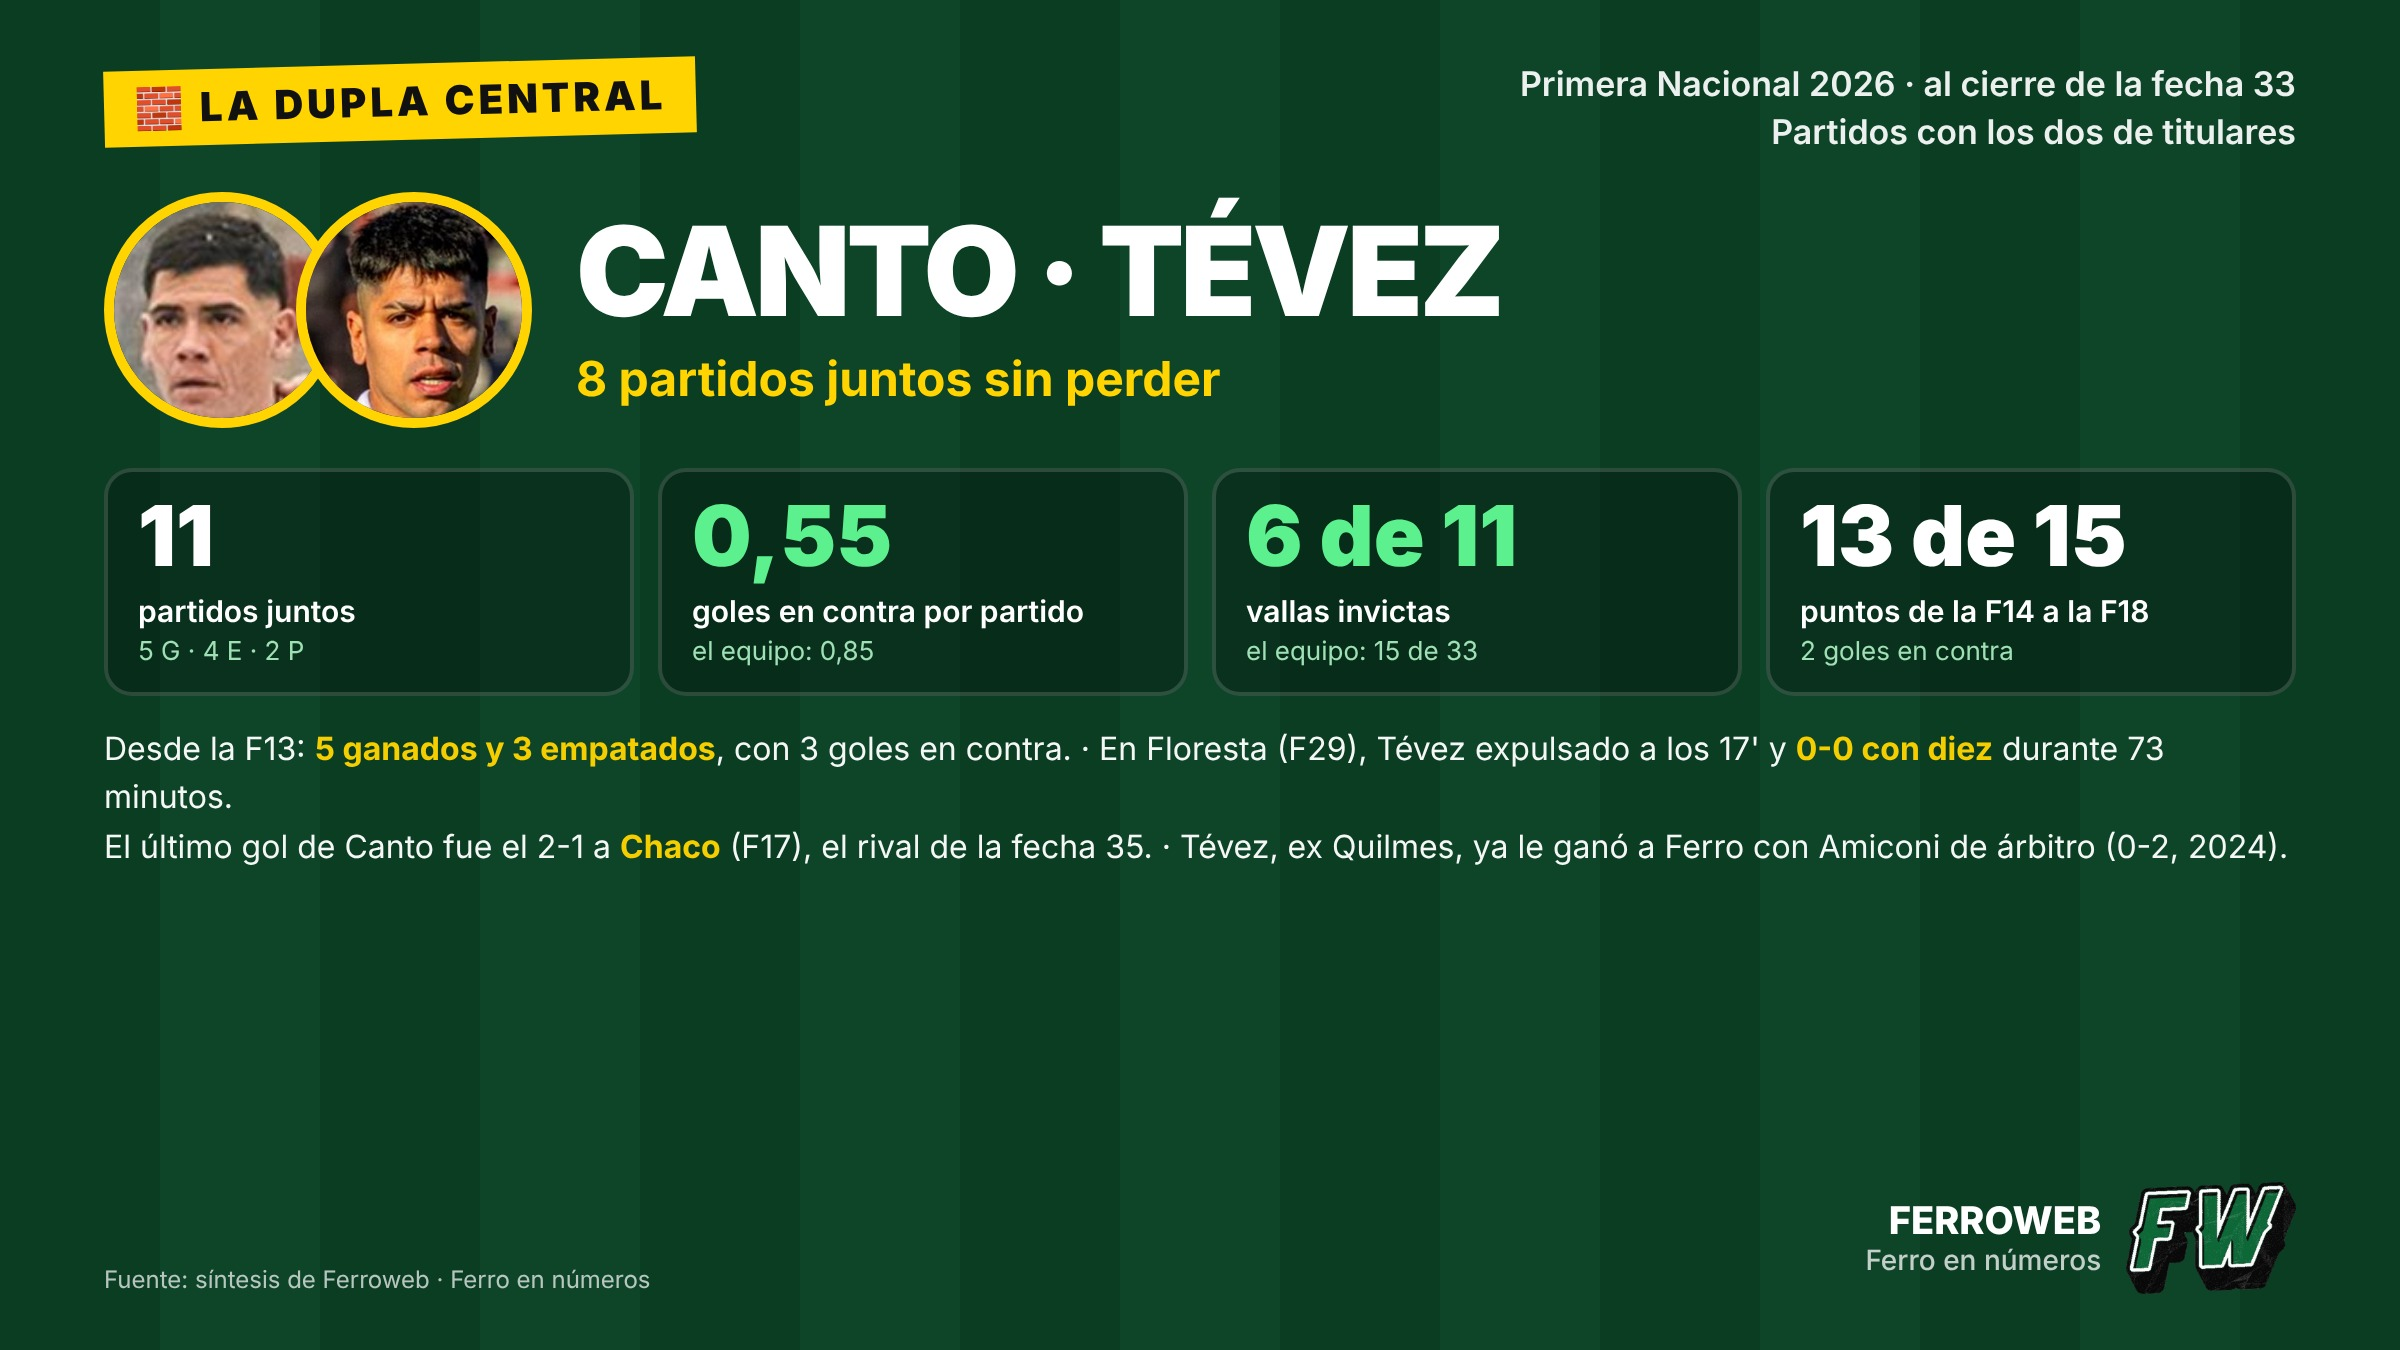
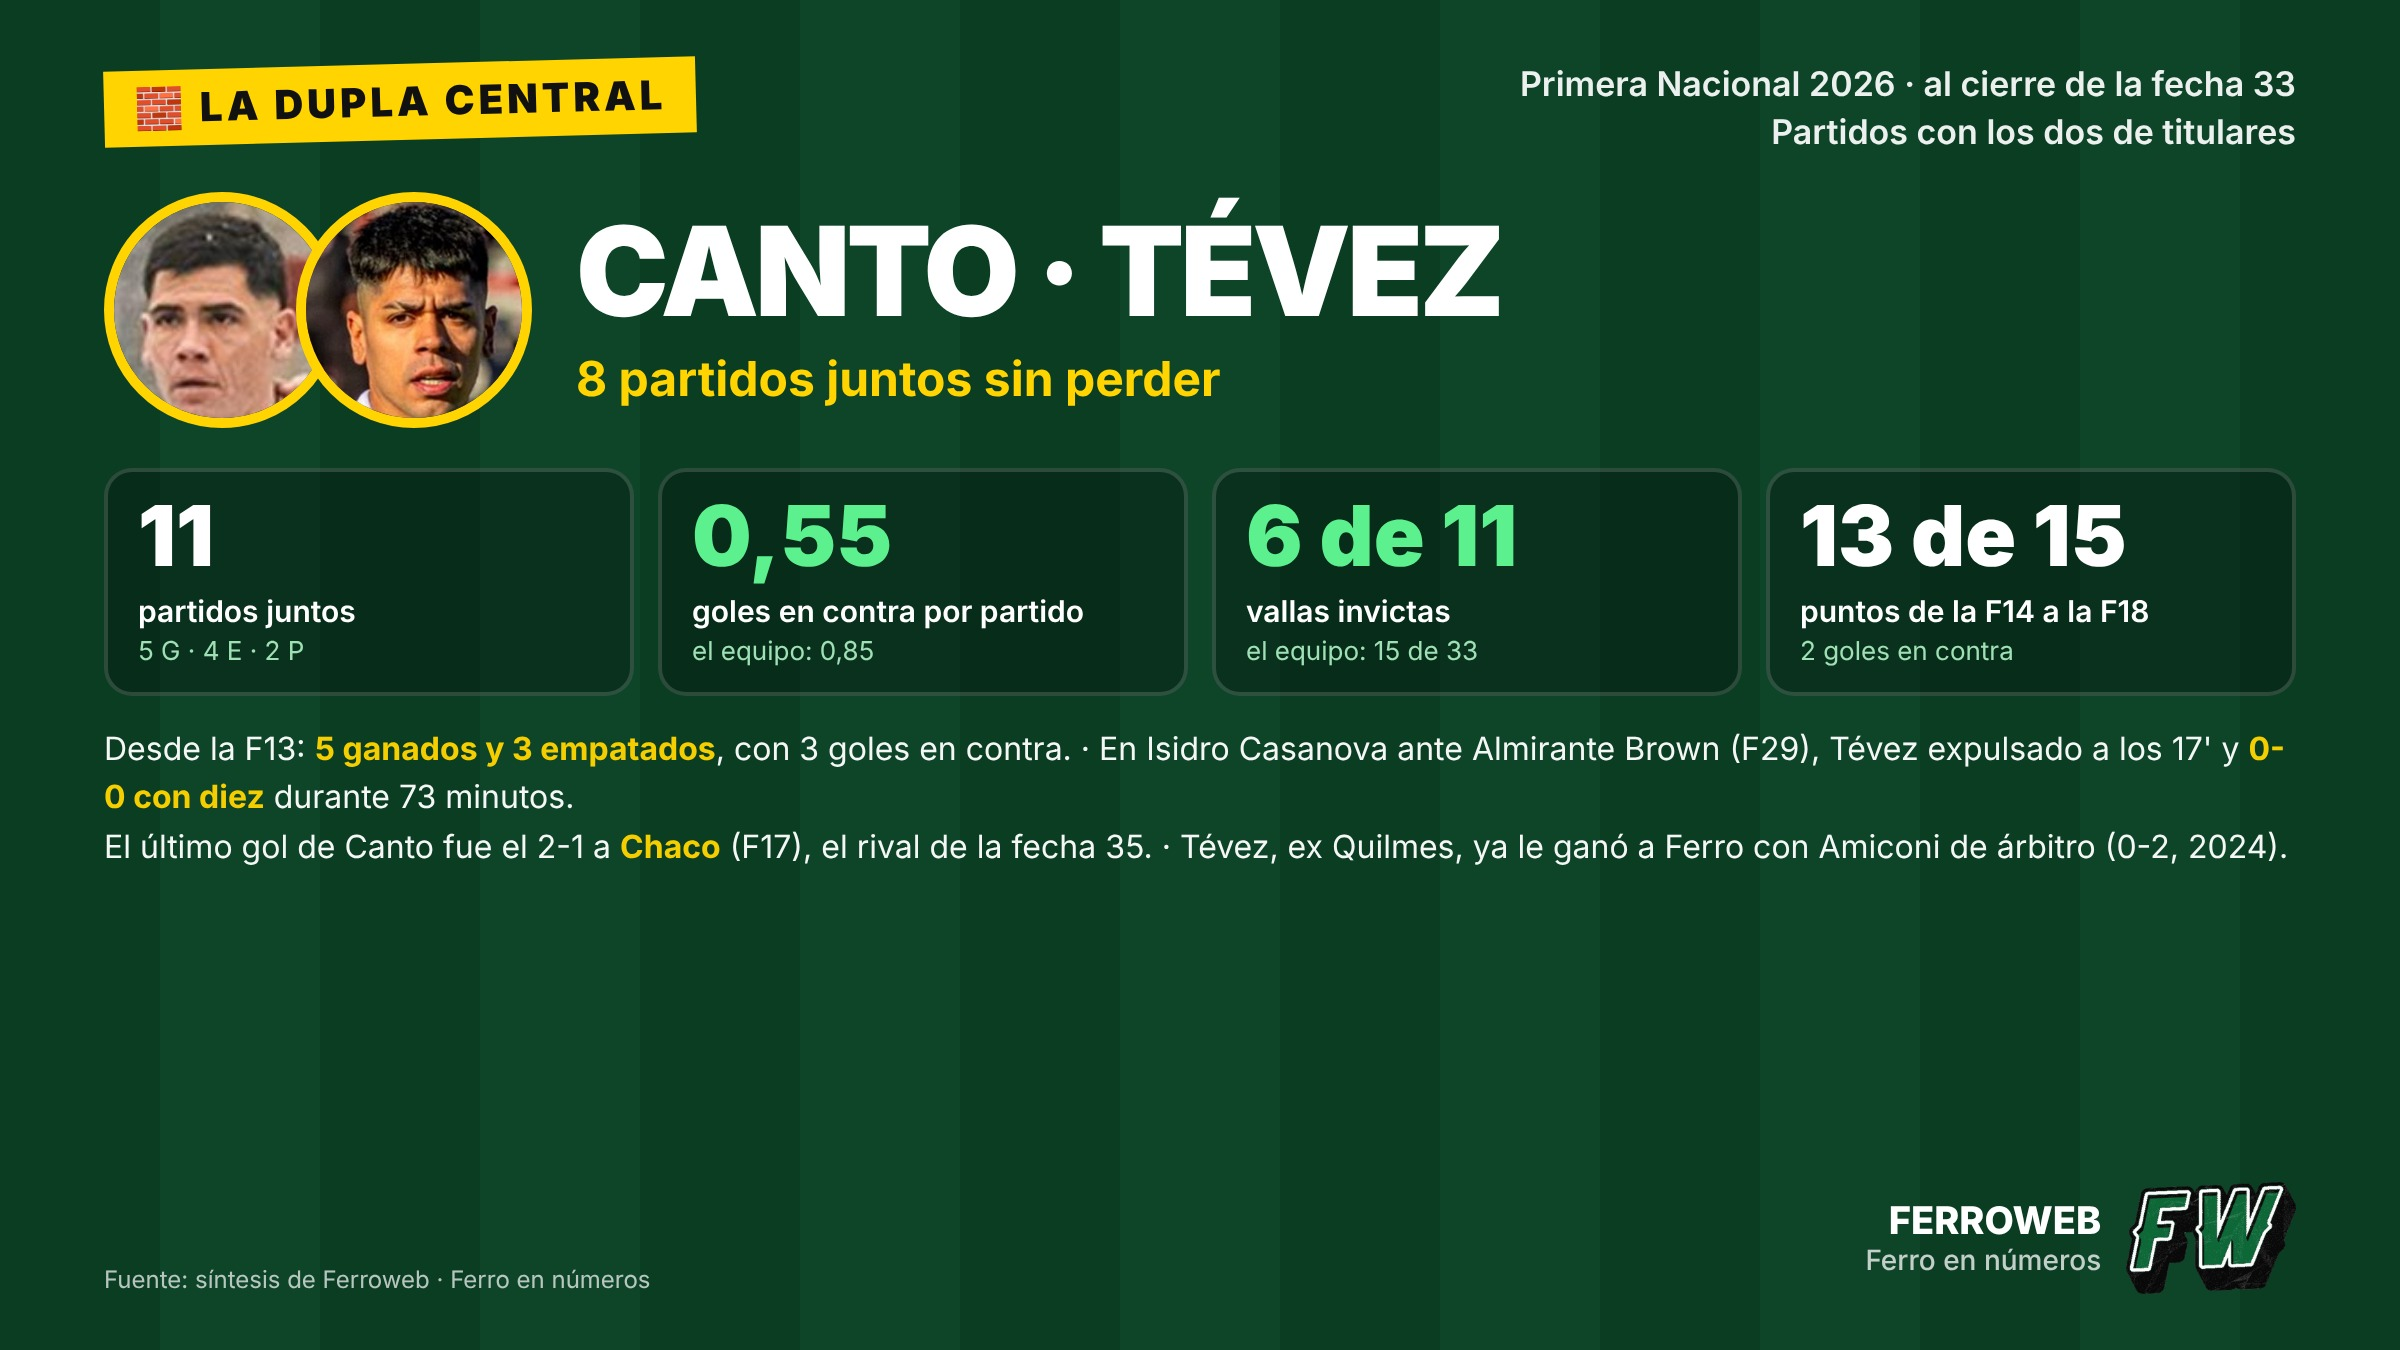
Corrección: la expulsión de Tévez (F29) fue ante Almirante Brown en Isidro Casanova, no en Floresta; Morón: también Castellani expulsado
Regla nueva en EDITORIAL.md: estadios, lugares y nombres no se escriben de memoria.

Claude-Session: https://claude.ai/code/session_01C6MxtKRP2rvYESwYSYT4D4

Changed region(s): [[0.4688, 0.5289, 0.9688, 0.5911], [0.0312, 0.56, 0.1562, 0.6222], [0.1875, 0.56, 0.2188, 0.6222]]

diff --git a/datos-fuente/EDITORIAL.md b/datos-fuente/EDITORIAL.md
@@ -24,6 +24,7 @@ Si algo no se puede resolver (por ejemplo, el árbitro todavía no está designa
 - **Bajas del plantel** (no se usan en previas, pizarra, claves, chicanas, pronóstico ni informes del árbitro; sí pueden aparecer en datos históricos): Benegas (se fue a jugar al exterior) y Campos (separado del plantel). Fuente: la redacción (Gaby, 13/10/2026).
 
 - **Nada inventado.** Todo número sale de `public/data/*.json` o de una fuente citada. Si no hay dato, no se escribe.
+- **Nada de memoria:** estadios, barrios, ciudades, fechas y nombres completos tampoco se escriben «de cabeza». El estadio sale del campo `cancha` de la síntesis de Ferroweb (o de la fuente del partido); si no está, se nombra solo al rival («ante Almirante Brown»), sin lugar.
 - **No tocar lo calculado:** `partidos`, `jugadores`, `tabla`, `lab`, `equipo`, `arbitros.tabla`, `escenarios`, `ultimas` y `datos-fuente/*.json` (salvo `pedidos-atendidos.json` y `correcciones.json`).
 - Tono de hincha verdolaga, rioplatense, con humor pero sin faltar el respeto. Las chicanas apuntan al juego y a los números, no a las personas.
 - Mantener la estructura exacta de cada archivo: el sitio lee campos concretos.
